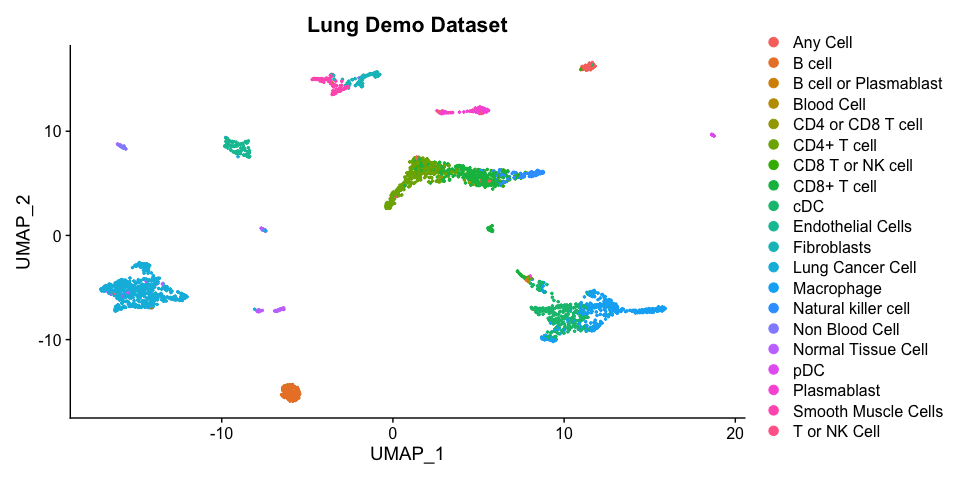
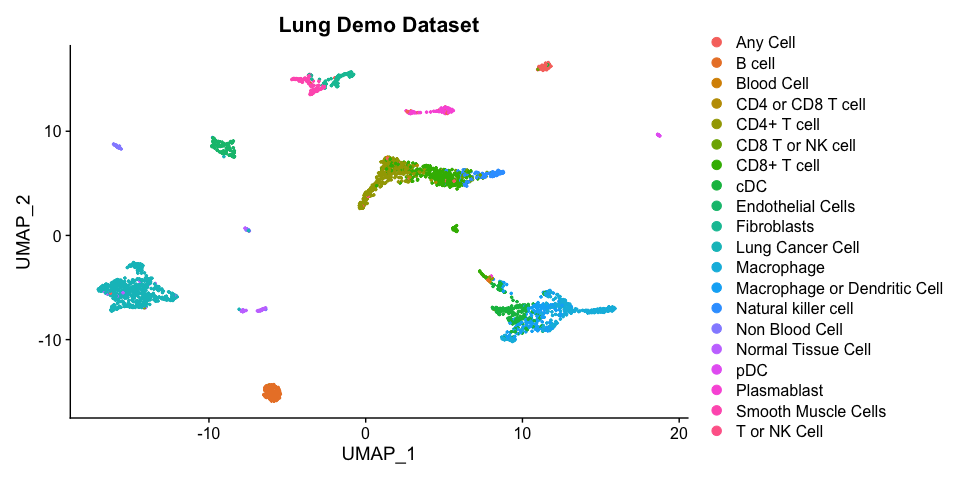
updated scripts

diff --git a/README.md b/README.md
@@ -199,20 +199,26 @@ table(results_lung$scATOMIC_pred)
 ```
 
     ## 
-    ##              Any Cell                B cell B cell or Plasmablast 
-    ##                   101                   162                     1 
-    ##            Blood Cell     CD4 or CD8 T cell           CD4+ T cell 
-    ##                     5                     6                   407 
-    ##      CD8 T or NK cell           CD8+ T cell                   cDC 
-    ##                    34                   342                   326 
-    ##     Endothelial Cells           Fibroblasts      Lung Cancer Cell 
-    ##                   109                    90                   603 
-    ##            Macrophage   Natural killer cell        Non Blood Cell 
-    ##                   388                   101                    62 
-    ##    Normal Tissue Cell                   pDC           Plasmablast 
-    ##                    68                    18                    80 
-    ##   Smooth Muscle Cells          T or NK Cell 
-    ##                    92                     2
+    ##                     Any Cell                       B cell 
+    ##                          103                          162 
+    ##                   Blood Cell            CD4 or CD8 T cell 
+    ##                            7                            6 
+    ##                  CD4+ T cell             CD8 T or NK cell 
+    ##                          400                           32 
+    ##                  CD8+ T cell                          cDC 
+    ##                          344                          223 
+    ##            Endothelial Cells                  Fibroblasts 
+    ##                          109                           90 
+    ##             Lung Cancer Cell                   Macrophage 
+    ##                          605                          280 
+    ## Macrophage or Dendritic Cell          Natural killer cell 
+    ##                          211                          104 
+    ##               Non Blood Cell           Normal Tissue Cell 
+    ##                           66                           61 
+    ##                          pDC                  Plasmablast 
+    ##                           18                           80 
+    ##          Smooth Muscle Cells                 T or NK Cell 
+    ##                           92                            4
 
 ``` r
 head(results_lung)
@@ -232,34 +238,41 @@ head(results_lung)
     ## AAACCTGTCGAATGCT-1 Tissue_Cell_Normal_or_Cancer             Non Stromal Cell
     ## AAACCTGTCTGAGGGA-1        unclassified_any_cell        unclassified_any_cell
     ## AAACGGGAGTAGATGT-1 Tissue_Cell_Normal_or_Cancer             Non Stromal Cell
-    ##                                   layer_3                   layer_4
-    ## AAACCTGAGACCGGAT-1             Macrophage                Macrophage
-    ## AAACCTGCAGTCACTA-1      CD4 or CD8 T cell               CD4+ T cell
-    ## AAACCTGGTAAGTAGT-1             Macrophage                Macrophage
-    ## AAACCTGTCGAATGCT-1 Non GI Epithelial Cell Breast/Lung/Prostate Cell
-    ## AAACCTGTCTGAGGGA-1  unclassified_any_cell     unclassified_any_cell
-    ## AAACGGGAGTAGATGT-1 Non GI Epithelial Cell Breast/Lung/Prostate Cell
-    ##                                  layer_5          layer_6    scATOMIC_pred
-    ## AAACCTGAGACCGGAT-1            Macrophage       Macrophage       Macrophage
-    ## AAACCTGCAGTCACTA-1           CD4+ T cell      CD4+ T cell      CD4+ T cell
-    ## AAACCTGGTAAGTAGT-1            Macrophage       Macrophage       Macrophage
-    ## AAACCTGTCGAATGCT-1      Lung Cancer Cell Lung Cancer Cell Lung Cancer Cell
-    ## AAACCTGTCTGAGGGA-1 unclassified_any_cell         Any Cell         Any Cell
-    ## AAACGGGAGTAGATGT-1      Lung Cancer Cell Lung Cancer Cell Lung Cancer Cell
-    ##                         S.Score    G2M.Score Phase     old.ident
-    ## AAACCTGAGACCGGAT-1 -0.006630921 -0.047453336    G1 SeuratProject
-    ## AAACCTGCAGTCACTA-1 -0.046677709 -0.006673286    G1 SeuratProject
-    ## AAACCTGGTAAGTAGT-1  0.015462403  0.063293498   G2M SeuratProject
-    ## AAACCTGTCGAATGCT-1 -0.049247934 -0.064310971    G1 SeuratProject
-    ## AAACCTGTCTGAGGGA-1 -0.025618571 -0.023923499    G1 SeuratProject
-    ## AAACGGGAGTAGATGT-1 -0.038660836 -0.129262025    G1 SeuratProject
-    ##                    RNA_snn_res.0.2 seurat_clusters pan_cancer_cluster
-    ## AAACCTGAGACCGGAT-1               2               2             Normal
-    ## AAACCTGCAGTCACTA-1               0               0             Normal
-    ## AAACCTGGTAAGTAGT-1               2               2             Normal
-    ## AAACCTGTCGAATGCT-1               1               1             Cancer
-    ## AAACCTGTCTGAGGGA-1               9               9             Normal
-    ## AAACGGGAGTAGATGT-1               1               1             Cancer
+    ##                                          layer_3                       layer_4
+    ## AAACCTGAGACCGGAT-1                    Macrophage                    Macrophage
+    ## AAACCTGCAGTCACTA-1             CD4 or CD8 T cell                   CD4+ T cell
+    ## AAACCTGGTAAGTAGT-1 unclassified_macrophage_or_DC unclassified_macrophage_or_DC
+    ## AAACCTGTCGAATGCT-1        Non GI Epithelial Cell     Breast/Lung/Prostate Cell
+    ## AAACCTGTCTGAGGGA-1         unclassified_any_cell         unclassified_any_cell
+    ## AAACGGGAGTAGATGT-1        Non GI Epithelial Cell     Breast/Lung/Prostate Cell
+    ##                                          layer_5                      layer_6
+    ## AAACCTGAGACCGGAT-1                    Macrophage                   Macrophage
+    ## AAACCTGCAGTCACTA-1                   CD4+ T cell                  CD4+ T cell
+    ## AAACCTGGTAAGTAGT-1 unclassified_macrophage_or_DC Macrophage or Dendritic Cell
+    ## AAACCTGTCGAATGCT-1              Lung Cancer Cell             Lung Cancer Cell
+    ## AAACCTGTCTGAGGGA-1         unclassified_any_cell                     Any Cell
+    ## AAACGGGAGTAGATGT-1              Lung Cancer Cell             Lung Cancer Cell
+    ##                                   scATOMIC_pred      S.Score    G2M.Score Phase
+    ## AAACCTGAGACCGGAT-1                   Macrophage -0.006630921 -0.047453336    G1
+    ## AAACCTGCAGTCACTA-1                  CD4+ T cell -0.046677709 -0.006673286    G1
+    ## AAACCTGGTAAGTAGT-1 Macrophage or Dendritic Cell  0.015462403  0.063293498   G2M
+    ## AAACCTGTCGAATGCT-1             Lung Cancer Cell -0.049247934 -0.064310971    G1
+    ## AAACCTGTCTGAGGGA-1                     Any Cell -0.025618571 -0.023923499    G1
+    ## AAACGGGAGTAGATGT-1             Lung Cancer Cell -0.038660836 -0.129262025    G1
+    ##                        old.ident RNA_snn_res.0.2 seurat_clusters
+    ## AAACCTGAGACCGGAT-1 SeuratProject               2               2
+    ## AAACCTGCAGTCACTA-1 SeuratProject               0               0
+    ## AAACCTGGTAAGTAGT-1 SeuratProject               2               2
+    ## AAACCTGTCGAATGCT-1 SeuratProject               1               1
+    ## AAACCTGTCTGAGGGA-1 SeuratProject               9               9
+    ## AAACGGGAGTAGATGT-1 SeuratProject               1               1
+    ##                    pan_cancer_cluster
+    ## AAACCTGAGACCGGAT-1             Normal
+    ## AAACCTGCAGTCACTA-1             Normal
+    ## AAACCTGGTAAGTAGT-1             Normal
+    ## AAACCTGTCGAATGCT-1             Cancer
+    ## AAACCTGTCTGAGGGA-1             Normal
+    ## AAACGGGAGTAGATGT-1             Cancer
 
 ## scATOMIC CNV mode
 
@@ -414,15 +427,37 @@ table(Wu_et_al_breast_metadata$subtype)
     ##   ER+ HER2+  TNBC 
     ## 11878  1775 10836
 
+We recommend using a high performance compute cluster to train new
+models as they can often include large references requiring large memory
+usage. For this demo we are taking a sample of the data to speed up
+training and run it on a laptop:
+
+``` r
+cancer_types <- levels(as.factor(Wu_et_al_breast_metadata$subtype))
+#sample 3000 cells from each type if size is greater than 3000
+index_subset <- c()
+for(i in 1:length(cancer_types)){
+  index_cancer <- row.names(Wu_et_al_breast_metadata)[which(Wu_et_al_breast_metadata$subtype == cancer_types[i])]
+  if(length(index_cancer) > 3000){
+    index_subset <- c(index_subset, index_cancer[sample(1:length(index_cancer), size = 3000)])
+  } else{
+    index_subset <- c(index_subset, index_cancer)
+  }
+}
+Wu_et_al_breast_count_mat <- Wu_et_al_breast_count_mat[,index_subset]
+Wu_et_al_breast_metadata <- Wu_et_al_breast_metadata[index_subset,]
+```
+
 To train a new layer we must create a directory to save the model to and
-we run the get\_new\_scATOMIC\_layer() function
+we run the get\_new\_scATOMIC\_layer() function To speed up the demo we
+use only 100 trees here
 
 ``` r
 #change "~/Downloads" to path containing "Wu_etal_2021_BRCA_scRNASeq/"
 dir.create("~/Downloads/Wu_etal_2021_BRCA_scRNASeq/breast_subclassification_layer")
 
 breast_cancer_subclassification <- get_new_scATOMIC_layer(training_data = Wu_et_al_breast_count_mat,cell_type_metadata = Wu_et_al_breast_metadata$subtype, output_dir = "~/Downloads/Wu_etal_2021_BRCA_scRNASeq/breast_subclassification_layer/",
-                       mc_cores = 6, layer_name = "breast_subclassification", n_cells_replicate = 10000, n_trees = 500)
+                        layer_name = "breast_subclassification", n_cells_replicate = 5000, n_trees = 100)
 ```
 
 To show how to use the new subclassification layer, we apply it to an
@@ -478,14 +513,34 @@ table(results_Pal_0125$scATOMIC_pred)
 ```
 
     ## 
-    ##            Any Cell          Blood Cell         CD4+ T cell    CD8 T or NK cell 
-    ##                  14                   3                   3                   1 
-    ##         CD8+ T cell                 cDC   Endothelial Cells                 ER+ 
-    ##                  79                  54                  16                3755 
-    ##         Fibroblasts      Non Blood Cell    Non Stromal Cell  Normal Tissue Cell 
-    ##                 159                   4                   4                 117 
-    ## Smooth Muscle Cells        Stromal Cell 
-    ##                  23                   5
+    ##                                   Any Cell 
+    ##                                         14 
+    ##                                 Blood Cell 
+    ##                                          5 
+    ##                                CD4+ T cell 
+    ##                                          3 
+    ##                           CD8 T or NK cell 
+    ##                                          1 
+    ##                                CD8+ T cell 
+    ##                                         79 
+    ##                                        cDC 
+    ##                                         58 
+    ##                          Endothelial Cells 
+    ##                                         16 
+    ##                                        ER+ 
+    ##                                       3707 
+    ##                                Fibroblasts 
+    ##                                        161 
+    ##                             Non Blood Cell 
+    ##                                         18 
+    ##                         Normal Tissue Cell 
+    ##                                        143 
+    ##                        Smooth Muscle Cells 
+    ##                                         24 
+    ##                               Stromal Cell 
+    ##                                          5 
+    ## Unclassified_Cell_from_Breast Cancer Cells 
+    ##                                          3
 
 The breast cancer cells are now classified as ER+ cells.
 
